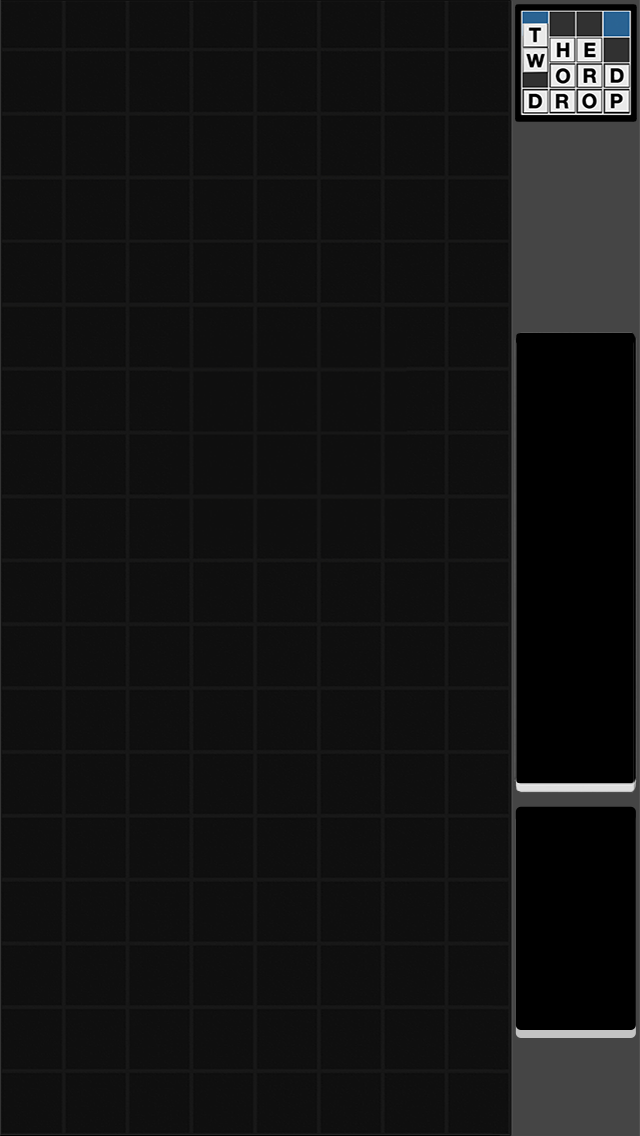
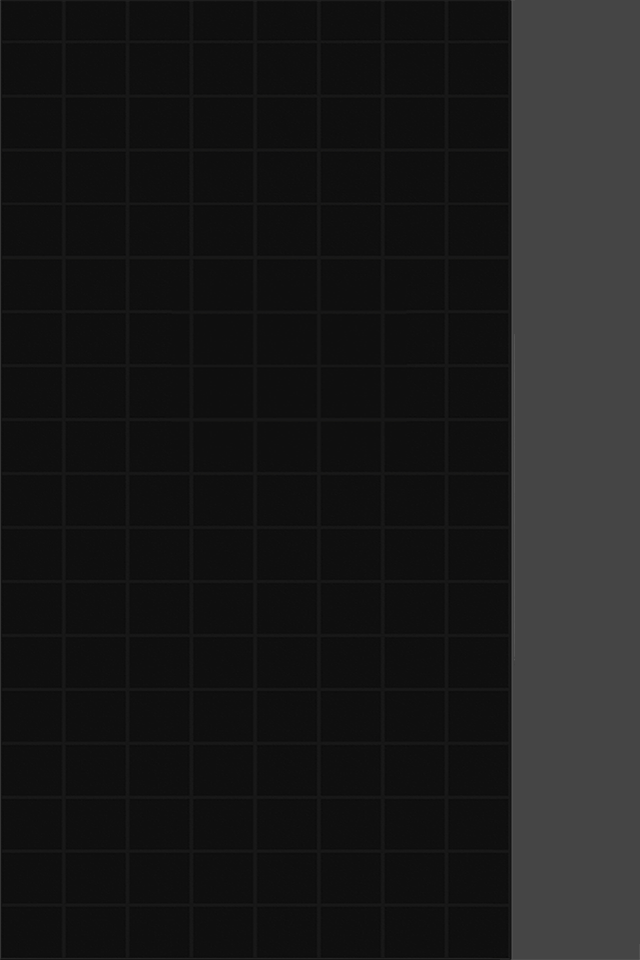
Updated imagery
Addition of GameOverScene.swift

Changed region(s): [[0.7812, 0.2812, 1.0, 0.9375], [0.7812, 0.0, 1.0, 0.125]]

diff --git a/TheWordDrop/GameOverScene.swift b/TheWordDrop/GameOverScene.swift
@@ -1,0 +1,35 @@
+//
+//  GameOver.swift
+//  TheWordDrop
+//
+//  Created by Christopher Robison on 5/25/15.
+//  Copyright (c) 2015 Christopher Robison. All rights reserved.
+//
+
+import SpriteKit
+
+class GameOverScene: SKScene {
+    
+    override func didMoveToView(view: SKView) {
+        let leftMargin = view.bounds.width/4
+        let topMargin = view.bounds.height/4
+        
+        let question = SKLabelNode(fontNamed:"Arial")
+        question.text = "Play Again?"
+        question.fontSize = 30
+        question.position =
+            CGPoint(x:leftMargin, y:view.bounds.height - topMargin)
+        self.addChild(question)
+        let playAgainButton = UIButton(frame: CGRectMake(leftMargin, topMargin + 30,100,50))
+        
+        playAgainButton.backgroundColor = UIColor.clearColor()
+        
+        playAgainButton.setTitle("Yes", forState: UIControlState.Normal)
+        playAgainButton.setTitleColor(UIColor.greenColor(), forState: UIControlState.Normal)
+        playAgainButton.addTarget(self, action: "buttonAction:", forControlEvents: UIControlEvents.TouchDown)
+        self.view!.addSubview(playAgainButton)
+        
+    }
+    
+    
+}
